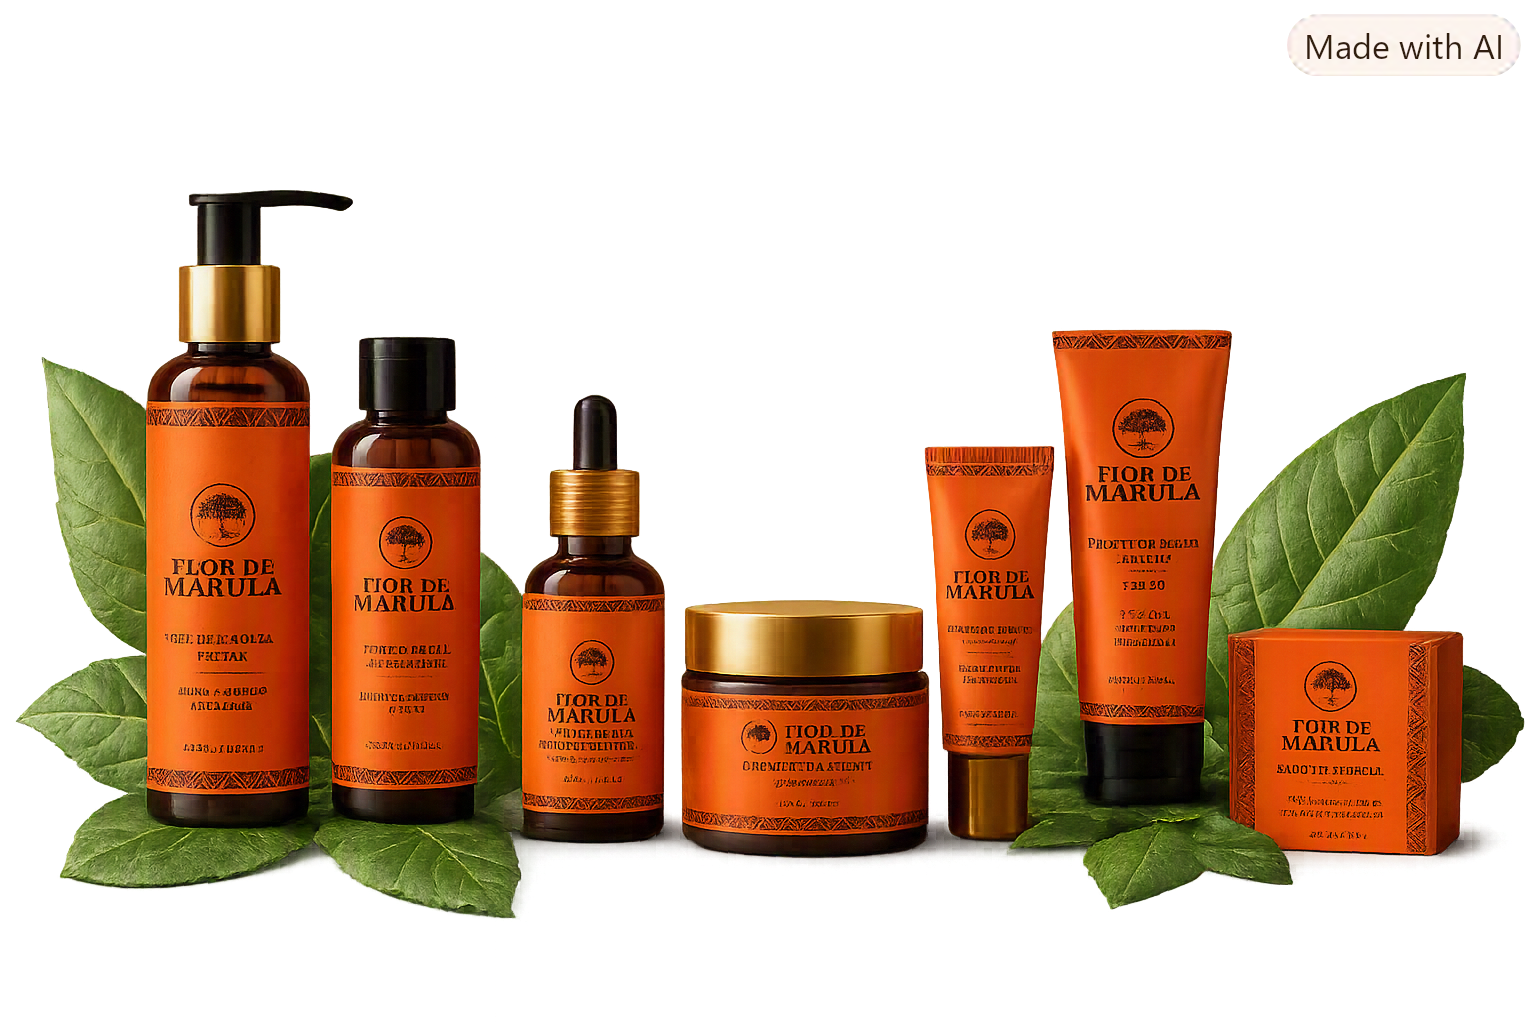
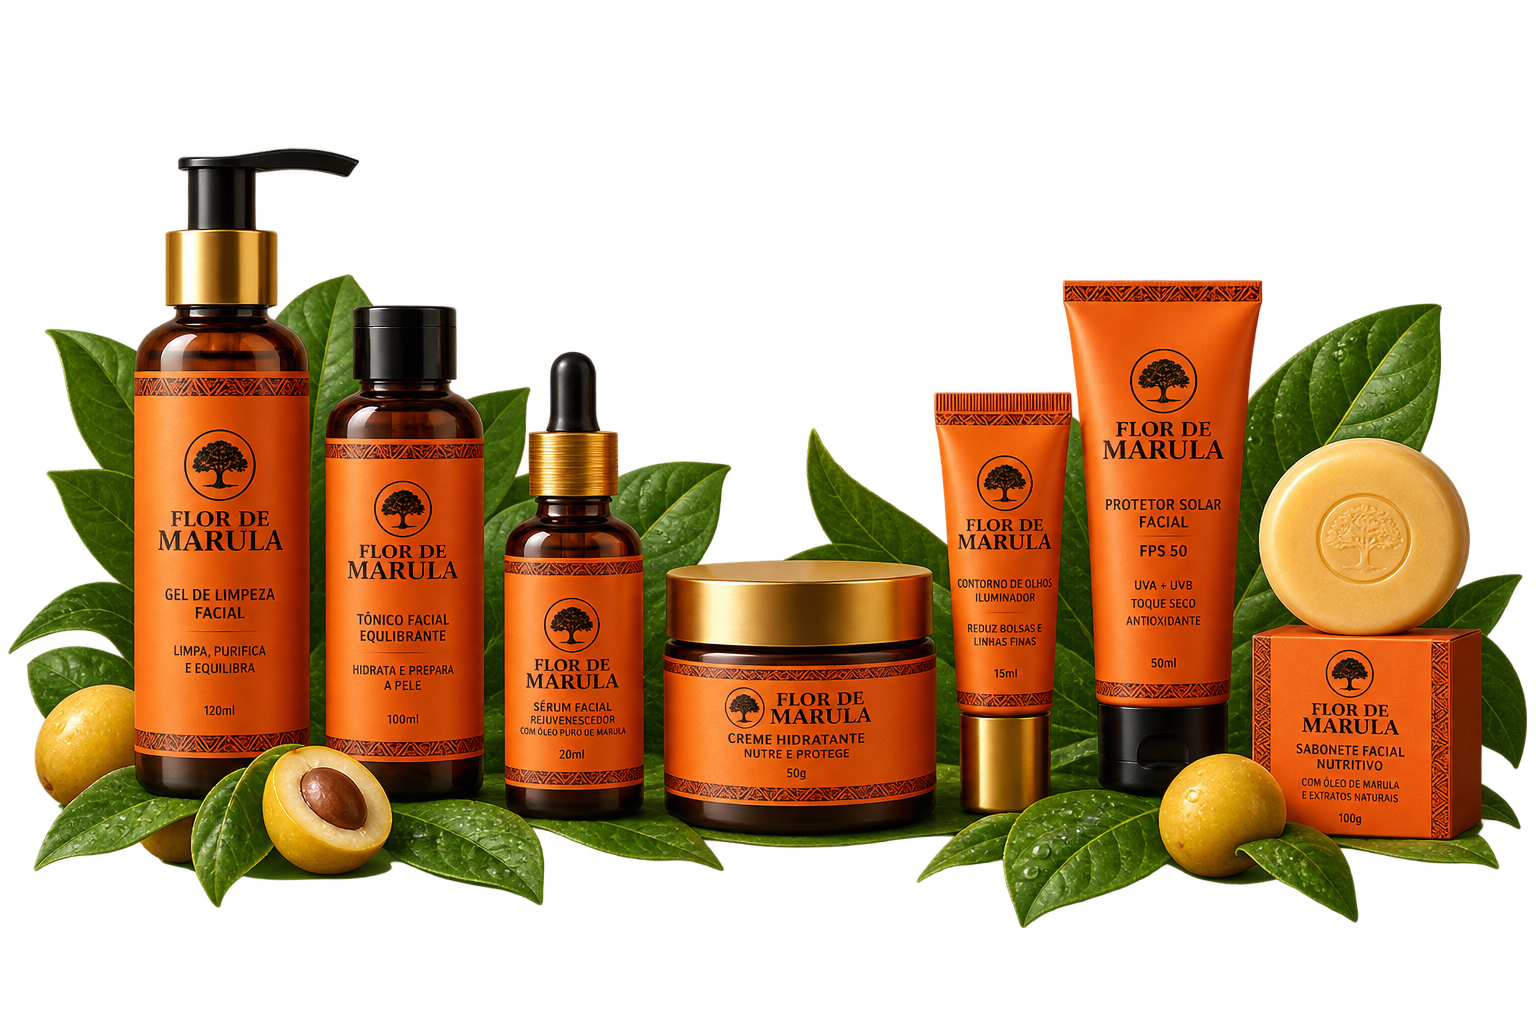
Ajustes visuais na Home: hero, cards de produtos em alta, garantia e titulos
- Substitui a imagem do hero por novo banner do lineup de produtos.
- Reduz a largura dos cards de "Produtos em Alta" e o espacamento entre
  eles, mantendo o fundo #FFE9E9 e nome/preco em texto normal.
- Fundo da seccao "Nossa promessa" alinhado ao creme (#F0E9DA) usado em
  "A Diferenca dos Nossos Produtos".
- Reduz o texto "Garantia de devolucao do dinheiro" para caber dentro
  do selo circular.
- Titulos "Nosso Melhor Produto", "A Diferenca dos Nossos Produtos",
  "Por que somos Diferentes" e "+300.000 Clientes..." passam a usar
  fonte Italiana maior, com a palavra final em destaque (#BA4104) —
  aplicado apenas na Home, preservando o estilo original fiel ao
  Figma nos mesmos parciais reutilizados na pagina de Detalhes do
  Produto.

diff --git a/resources/css/components.css b/resources/css/components.css
@@ -128,15 +128,23 @@
 }
 
 /* Trend card (produtos em alta) */
+.fm-trend__cards {
+    display: flex;
+    flex-wrap: wrap;
+    align-items: flex-start;
+    gap: 20px;
+}
+
 .fm-trend-card {
     background: var(--fm-rose-bg);
     border-radius: var(--fm-radius-md);
-    box-shadow: 0 0 5px var(--fm-rose-shadow);
+    box-shadow: var(--fm-shadow-sm);
     padding: 16px 20px;
     display: flex;
     align-items: center;
     gap: 20px;
     position: relative;
+    flex: 0 1 360px;
 }
 
 .fm-trend-card__image {
@@ -144,6 +152,17 @@
     height: 100px;
     object-fit: contain;
     flex-shrink: 0;
+}
+
+.fm-trend-card__name {
+    font-family: var(--fm-font-base);
+    font-weight: 400;
+    font-size: 16px;
+    color: var(--fm-text-strong);
+}
+
+.fm-trend-card .fm-price {
+    color: var(--fm-black);
 }
 
 .fm-discount-badge {

diff --git a/resources/css/home.css b/resources/css/home.css
@@ -151,6 +151,7 @@
 
 /* Garantia 30 dias */
 .fm-guarantee {
+    background: var(--fm-cream);
     padding-block: 60px;
 }
 .fm-guarantee__seal {
@@ -181,8 +182,10 @@
 }
 .fm-guarantee__seal-label {
     font-weight: 600;
-    font-size: 10px;
+    font-size: 8px;
+    line-height: 1.3;
     margin-top: 4px;
+    max-width: 120px;
 }
 .fm-guarantee__promise-title {
     font-family: 'Jomolhari', serif;
@@ -207,6 +210,15 @@
 }
 .fm-section-title__cta {
     margin-left: auto;
+}
+
+/* Titulos de destaque (Nosso Melhor Produto, A Diferenca dos Nossos Produtos,
+   Por que somos Diferentes, +300.000 Clientes) — fonte Italiana, maior, bicolor */
+.fm-heading-split {
+    color: var(--fm-black);
+}
+.fm-heading-split .fm-accent-word {
+    color: var(--fm-primary);
 }
 
 /* Diferenca dos produtos */

diff --git a/resources/views/home/index.blade.php b/resources/views/home/index.blade.php
@@ -25,11 +25,9 @@
             <div class="fm-trend">
                 <p class="fm-trend__title d-none d-lg-flex">Produtos{{ "\n" }}Em Alta</p>
                 <p class="fm-trend__title d-flex d-lg-none">Produtos em Alta</p>
-                <div class="row g-3 flex-grow-1">
+                <div class="fm-trend__cards flex-grow-1">
                     @foreach ($trendingProducts as $product)
-                        <div class="col-12 col-md-6">
-                            <x-product-card :product="$product" variant="trend" />
-                        </div>
+                        <x-product-card :product="$product" variant="trend" />
                     @endforeach
                 </div>
             </div>
@@ -66,7 +64,7 @@
 <section class="py-5">
     <div class="fm-container">
         <div class="d-flex align-items-center justify-content-between flex-wrap gap-3 mb-4">
-            <h2 class="fm-heading-lg mb-0">Nosso Melhor Produto</h2>
+            <h2 class="fm-heading-italiana fm-heading-split mb-0">Nosso Melhor <span class="fm-accent-word">Produto</span></h2>
             <a href="#" class="fm-btn fm-btn-primary fm-cta-label">Ver Todos</a>
         </div>
         <div class="row g-4">
@@ -80,7 +78,7 @@
 </section>
 
 {{-- A Diferenca dos Nossos Produtos (214:121) --}}
-@include('partials.diff-section')
+@include('partials.diff-section', ['homeHeadingStyle' => true])
 
 {{-- Produtos Naturais — beneficios (secao escura, Secca 2 / 214:194) --}}
 <section class="fm-benefits-dark">
@@ -114,7 +112,7 @@
 {{-- Por que somos Diferentes (Section 6 - why us / 214:211) --}}
 <section class="fm-compare">
     <div class="fm-container">
-        <h2 class="fm-heading-italiana text-center mb-5">Por que somos Diferentes</h2>
+        <h2 class="fm-heading-italiana fm-heading-split text-center mb-5">Por que somos <span class="fm-accent-word">Diferentes</span></h2>
         <div class="row g-4 justify-content-center">
             <div class="col-12 col-md-6 col-lg-5">
                 <div class="fm-compare-card">
@@ -153,6 +151,6 @@
 </section>
 
 {{-- Clientes adoram a Flor de Marula (214:280) --}}
-@include('partials.testimonials-section')
+@include('partials.testimonials-section', ['homeHeadingStyle' => true])
 
 @endsection

diff --git a/resources/views/partials/testimonials-section.blade.php b/resources/views/partials/testimonials-section.blade.php
@@ -1,7 +1,11 @@
 {{-- Clientes adoram a Flor de Marula — reutilizada na Home e nos Detalhes do Produto (214:280 / Secção Nosso melhor) --}}
 <section class="fm-testimonials">
     <div class="fm-container">
-        <h2 class="fm-heading-lg text-center mb-2">+300.000 Clientes adoram a Flor de Marula</h2>
+        @if (!empty($homeHeadingStyle))
+            <h2 class="fm-heading-italiana fm-heading-split text-center mb-2">+300.000 Clientes adoram a <span class="fm-accent-word">Flor de Marula</span></h2>
+        @else
+            <h2 class="fm-heading-lg text-center mb-2">+300.000 Clientes adoram a Flor de Marula</h2>
+        @endif
         <p class="fm-body-lg text-center mb-5" style="font-size: 25px; font-weight: 200;">Veja o que alguns deles têm a dizer sobre seu produto favorito</p>
         <div class="row g-4">
             @foreach (['testimonial-1.png', 'testimonial-2.png', 'testimonial-3.png'] as $image)

diff --git a/resources/views/partials/diff-section.blade.php b/resources/views/partials/diff-section.blade.php
@@ -9,7 +9,11 @@
 @endphp
 <section class="fm-diff-section">
     <div class="fm-container">
-        <h2 class="fm-heading-lg text-center mb-5">A Diferença dos Nossos Produtos</h2>
+        @if (!empty($homeHeadingStyle))
+            <h2 class="fm-heading-italiana fm-heading-split text-center mb-5">A Diferença dos Nossos <span class="fm-accent-word">Produtos</span></h2>
+        @else
+            <h2 class="fm-heading-lg text-center mb-5">A Diferença dos Nossos Produtos</h2>
+        @endif
         <div class="row g-4">
             @foreach ($diffs as $diff)
                 <div class="col-12 col-md-6 col-lg-3">

diff --git a/resources/views/components/product-card.blade.php b/resources/views/components/product-card.blade.php
@@ -4,7 +4,7 @@
     <div class="fm-trend-card">
         <img src="{{ asset($product->image_path) }}" alt="{{ $product->name }}" class="fm-trend-card__image">
         <div class="flex-grow-1">
-            <p class="fm-product-card__name mb-1" style="font-size: 18px;">{{ $product->name }}</p>
+            <p class="fm-trend-card__name mb-1">{{ $product->name }}</p>
             <p class="fm-price mb-1">{{ $product->formatted_price }}</p>
             @if ($product->discount_percent)
                 <span class="fm-discount-badge">{{ $product->discount_percent }}% de desconto</span>
